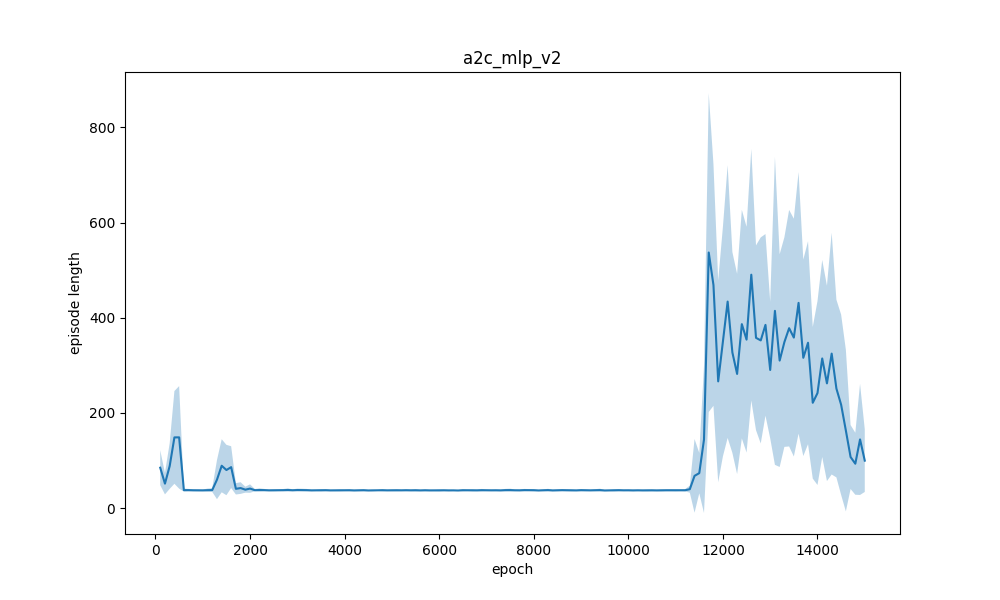
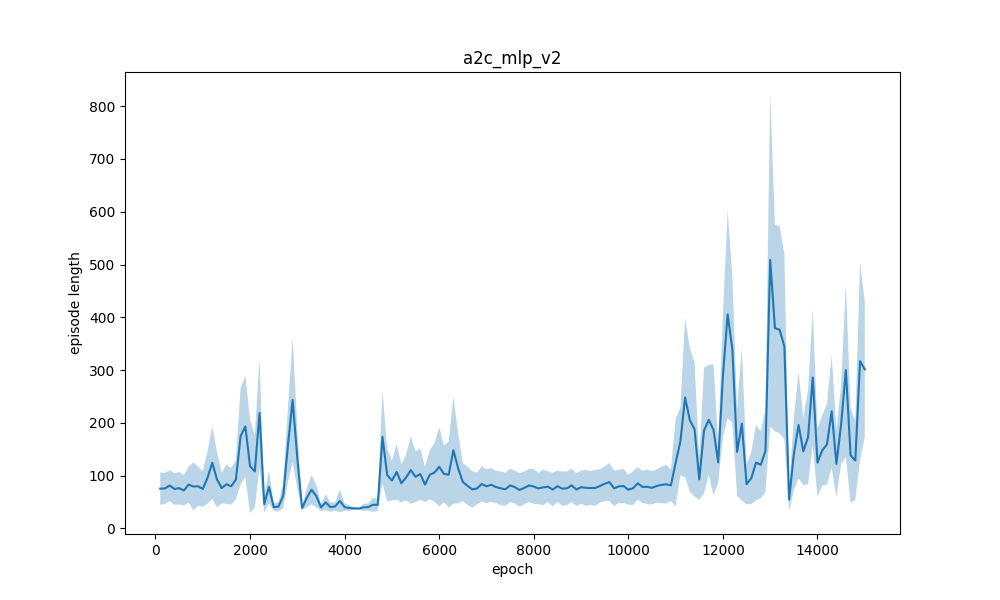
tests end

diff --git a/tournament.py b/tournament.py
@@ -1,0 +1,41 @@
+import matplotlib.pyplot as plt
+from v1.game.achtung import Achtung
+from v1.game.controllers import CNN_Controller, DQN_Controller, Man_Controller, Random_Controller, A2C_Controller
+from v1.rl.cnn.cnn import get_cnn_model
+from v1.rl.dqn.dqn import get_dqn_cnn_model, get_dqn_mlp_model
+from v1.rl.a2c.a2c import get_a2c_cnn_model, get_a2c_mlp_model
+
+GAMES = 1000
+
+if __name__ == "__main__":
+    dqn_cnn = get_dqn_cnn_model()
+    dqn_cnn.load("./achtung_tests/models/dqn_cnn_v1.zip")
+    dqn_mlp = get_dqn_mlp_model()
+    dqn_mlp.load("./achtung_tests/models/dqn_mlp_v1.zip")
+    a2c_cnn = get_a2c_cnn_model()
+    a2c_cnn.load("./achtung_tests/models/a2c_cnn_v1.zip")
+    a2c_mlp = get_a2c_mlp_model()
+    a2c_mlp.load("./achtung_tests/models/a2c_mlp_v1.zip")
+    cnn = get_cnn_model()
+    cnn.load("./achtung_tests/models/cnn_v1")
+
+    print('correct loaded')
+
+    players_controllers = [CNN_Controller(cnn), DQN_Controller(dqn_cnn), DQN_Controller(dqn_mlp), A2C_Controller(a2c_mlp), A2C_Controller(a2c_cnn), Random_Controller()]
+    players_names = ['cnn', 'dqn_cnn', 'dqn_mlp', 'a2c_mlp', 'a2c_cnn', 'random']
+    winners=dict()
+    for name in players_names:
+        winners[name] = 0
+    
+    for i in range(GAMES):
+        game = Achtung(n=len(players_controllers), players_controllers=players_controllers, render_game=False)  
+        obs = game.reset()
+        winner = game.play()
+        print(f'game no. {i+1} winner {winner+1}')
+        winners[players_names[winner]] += 1
+
+    plt.bar(players_names, list(winners.values()))
+    plt.xlabel('algorithm')
+    plt.ylabel('no. wins')
+    plt.title('Tournament')
+    plt.savefig(f'./achtung_tests/plots/tournament1.png')

diff --git a/v1/game/controllers.py b/v1/game/controllers.py
@@ -27,6 +27,17 @@ class DQN_Controller(Controller):
         print(action)
         return action[0]
 
+class A2C_Controller(Controller):
+    def __init__(self, model):
+        self.name = 'A2C'
+        self.model = model
+
+    def make_move(self, args):
+        if args[0]:
+            print("nope")
+        action = self.model.predict(args[1])
+        return action[0]
+
 class CNN_Controller(Controller):
     def __init__(self, model):
         self.name = 'CNN'
@@ -36,7 +47,6 @@ class CNN_Controller(Controller):
         if args[0]:
             print("nope")
         action = self.model.predict(args[1])
-        print(action)
         return action[0]
 
 class Random_Controller(Controller):
@@ -47,5 +57,4 @@ class Random_Controller(Controller):
         if args[0]:
             print("nope")
         action = random.choice([0,1,2])
-        print(action)
         return action

diff --git a/v1/game/config.py b/v1/game/config.py
@@ -18,14 +18,16 @@ MAGENTA = (255, 0, 255)
 GREEN = (0, 255, 0)
 CYAN = (0,255,255)
 ORANGE = (255, 69, 0)
-COLORS = [MAGENTA,GREEN,CYAN,ORANGE]
+RED = (255,0,0)
+BLUE = (0,0,255)
+COLORS = [MAGENTA,GREEN,CYAN,ORANGE,RED,BLUE]
 COLORS_str = ['magenta','green','cyan','orange']
 
 # keys
-LEFT_KEYS = [pygame.K_LEFT, pygame.K_a, pygame.K_v, pygame.K_k]
-LEFT_KEYS_str = ['<-', 'a', 'v', 'k']
-RIGHT_KEYS = [pygame.K_RIGHT, pygame.K_s, pygame.K_b, pygame.K_l]
-RIGHT_KEYS_str = ['->','s','b','l']
+LEFT_KEYS = [pygame.K_LEFT, pygame.K_a, pygame.K_v, pygame.K_k, pygame.K_n, pygame.K_t]
+LEFT_KEYS_str = ['<-', 'a', 'v', 'k', 'n', 't']
+RIGHT_KEYS = [pygame.K_RIGHT, pygame.K_s, pygame.K_b, pygame.K_l, pygame.K_m, pygame.K_y]
+RIGHT_KEYS_str = ['->','s','b','l', 'm', 'y']
 
 #rewards
 LIVING_REWARD = 1

diff --git a/v1/rl/cnn/cnn.py b/v1/rl/cnn/cnn.py
@@ -86,7 +86,7 @@ class Policy():
 
     def load(self, policy_net_name):
         print("loading saved network")
-        return torch.load(str(policy_net_name) + "0.ptmodel")
+        self.net = torch.load(str(policy_net_name))
 
 
     def update_policy(self):
@@ -198,6 +198,9 @@ class CNN_Model():
 
     def save(self, path):
         self.policy.dump(path)
+    
+    def load(self, path):
+        self.policy.load(path)
 
 # y = torch.from_numpy(obs.astype(np.float32)).unsqueeze(0)
 # print(y.shape)

diff --git a/v2/rl/cnn/cnn.py b/v2/rl/cnn/cnn.py
@@ -82,7 +82,7 @@ class Policy():
 
     def load(self, policy_net_name):
         print("loading saved network")
-        return torch.load(str(policy_net_name) + "0.ptmodel")
+        self.net = torch.load(str(policy_net_name))
 
 
     def update_policy(self):
@@ -195,6 +195,9 @@ class CNN_Model():
 
     def save(self, path):
         self.policy.dump(path)
+    
+    def load(self, path):
+        self.policy.load(path)
 
 # y = torch.from_numpy(obs.astype(np.float32)).unsqueeze(0)
 # print(y.shape)

diff --git a/achtung_tests/v2/a2c_mlp_tests_v2.py b/achtung_tests/v2/a2c_mlp_tests_v2.py
@@ -4,5 +4,5 @@ from v2.rl.a2c.a2c import get_a2c_mlp_model
 from achtung_tests.test import read_and_show_graph, test_and_save
 
 if __name__ == '__main__':
-    # test_and_save((get_a2c_mlp_model(), 'a2c_mlp_v2'))
+    test_and_save((get_a2c_mlp_model(), 'a2c_mlp_v2'))
     read_and_show_graph('a2c_mlp_v2')
